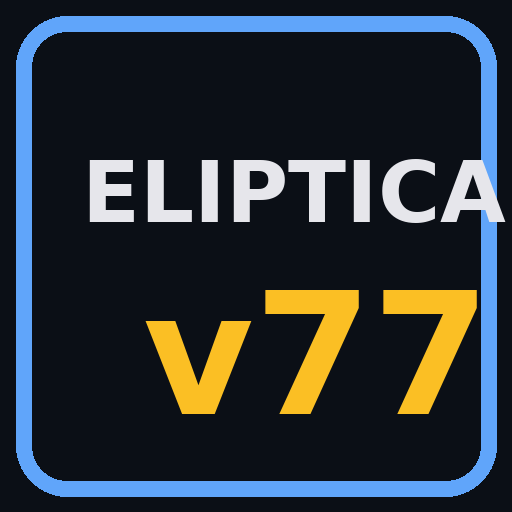
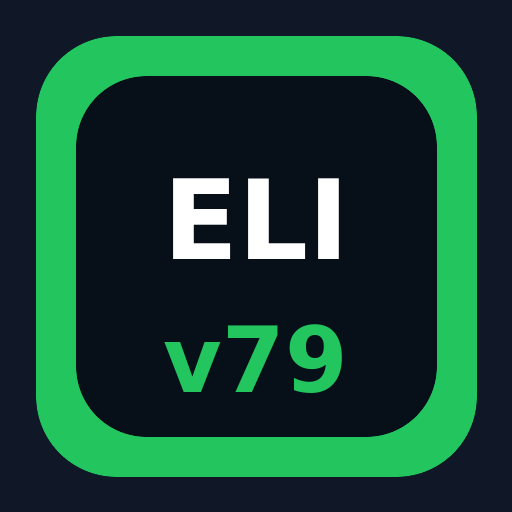
Add files via upload

diff --git a/app.js b/app.js
@@ -1,7 +1,7 @@
 (() => {
 'use strict';
-const APP_VERSION='v77';
-const BUILD='2026-04-23 12:20';
+const APP_VERSION='v79';
+const BUILD='2026-04-24 12:35';
 const $=id=>document.getElementById(id);
 const STATE_KEY='eliptica_state_current'; const VERSIONED_STATE_KEY=`eliptica_state_${APP_VERSION}`; const LAST_SESSION_KEY='lastCompletedSession'; const LAST_TIME_CAL_KEY='lastTimeCalibrationMemory'; const state={phase:'idle',countdown:{active:false},plan:null,startTs:null,pausedAccumMs:0,pauseTs:null,elapsedSec:0,machineOffsetSec:0,lastSec:-1,realOffset:0,history:[],logs:[],installPrompt:null,bannerIndex:0,bannerHoldMs:5000,bannerLastChange:0,bpmSamples:[],swReg:null,lastActionTs:0,lastRenderTick:0,lastRenderSnapshot:null,lastSummarySnapshot:null,wakeLock:null,timeCal:{enabled:false,appRefSec:0,realRefSec:0,factorOverall:1,factorAfterMinute:1},calMemory:{lastStartAppSec:0,lastStartRealSec:0,lastStartFactorOverall:1,lastStartFactorAfterMinute:1,lastRecommendedAppSec:0,lastRecommendedRealSec:0,lastRecommendedFactorOverall:1,lastRecommendedFactorAfterMinute:1,updatedAt:0},voice:{supported:('speechSynthesis' in window),unlocked:false,enabled:true,voices:[],selectedURI:'',queue:[],speaking:false,lastByKey:{},volume:1,rate:1,browserNotify:false,beepEnabled:true},audio:{ctx:null,unlocked:false},alerts:{lastKey:{},lastSecChecked:-1,lastNotifTs:0,finished:false,pulseSide:'ok',pulseSinceTs:0,pulseLastAlertTs:0},ble:{device:null,server:null,hrChar:null,connected:false,lastPacketTs:0,deviceName:'',autoAttempted:false,status:'EMparejar requerido',detail:'',reconnectAttempts:0,reconnectTimer:null,battery:null,lastRR:null}};
 const els={};
@@ -150,7 +150,14 @@ function pointControlText(data=state.lastSummarySnapshot||buildFinalSummarySnaps
     `Kcal plan: ${d.kPlan.toFixed(1)}`,
     `Kcal real: ${d.kReal.toFixed(1)}`,
     `Desvío total: ${d.totalDev>=0?'+':''}${d.totalDev.toFixed(1)} kcal`,
-    `Ritmo real: ${d.realRate.toFixed(2)} kcal/min`
+    `Ritmo real: ${d.realRate.toFixed(2)} kcal/min`,
+    ``,
+    `CALIBRACIÓN`,
+    `Inicio activa: ${d.timeCalEnabled?'SÍ':'NO'}`,
+    `Inicio: ${fmt(d.startCal.appRefSec||0)} → ${fmt(d.startCal.realRefSec||0)}`,
+    `Factor inicio desde 01:00: ${fmtFactor10(d.startCal.factorAfterMinute||1)}`,
+    `Recomendada final: ${fmt(d.recommendedCal.appRefSec||0)} → ${fmt(d.recommendedCal.realRefSec||0)}`,
+    `Factor recomendado desde 01:00: ${fmtFactor10(d.recommendedCal.factorAfterMinute||1)}`
   ];
   return lines.join('\n');
 }
@@ -627,6 +634,36 @@ function makeCalibrationPayload(appSec, realSec){
   if(!Number.isFinite(factorAfterMinute) || factorAfterMinute<=0) factorAfterMinute = factorOverall;
   return {enabled, appRefSec:a, realRefSec:r, factorOverall, factorAfterMinute};
 }
+
+function parseCalibrationFromText(text){
+  const lines = String(text||'').split(/\r?\n/).map(x=>x.trim()).filter(Boolean);
+  let inCal = false;
+  let appSec = null;
+  let realSec = null;
+  for(const line of lines){
+    if(/CALIBRACI[ÓO]N.*(?:TIEMPO|M[ÁA]QUINA|MAQUINA|PREVIA|INICIO)/i.test(line)){
+      inCal = true;
+      continue;
+    }
+    if(inCal && /^(?:BLOQUE|OBJETIVO|BPM|TRAMOS|AGUA|TOTAL|REGLAS|LECTURA|SEÑALES)\b/i.test(line)){
+      if(appSec!=null || realSec!=null) break;
+    }
+    if(!inCal) continue;
+    let m = line.match(/(?:Tiempo\s*)?(?:app|plan|base|aplicaci[oó]n)(?:\s*\/\s*plan)?\s*:\s*(\d{1,2}:\d{2})/i);
+    if(m){ appSec = parseMmSsInput(m[1]); continue; }
+    m = line.match(/(?:Tiempo\s*)?m[áa]quina\s*(?:real)?\s*:\s*(\d{1,2}:\d{2})/i);
+    if(m){ realSec = parseMmSsInput(m[1]); continue; }
+    m = line.match(/(?:maquina|máquina)\s*real\s*:\s*(\d{1,2}:\d{2})/i);
+    if(m){ realSec = parseMmSsInput(m[1]); continue; }
+    m = line.match(/^(\d{1,2}:\d{2})\s*(?:→|->|-->|—|–|-){1,2}\s*(\d{1,2}:\d{2})$/);
+    if(m){ appSec = parseMmSsInput(m[1]); realSec = parseMmSsInput(m[2]); continue; }
+  }
+  if(appSec!=null && realSec!=null){
+    const payload = makeCalibrationPayload(appSec, realSec);
+    return payload.enabled ? payload : null;
+  }
+  return null;
+}
 function recommendedCalibrationFromSnapshot(snap=state.lastRenderSnapshot||buildTimeSnapshot()){
   const safe = snap || buildTimeSnapshot();
   return makeCalibrationPayload(safe.machineBaseSec, safe.machineRawSec);
@@ -827,6 +864,7 @@ function parsePlan(text){
 
   const lines=text.split(/\r?\n/).map(s=>s.trim()).filter(Boolean);
   const segments=[], water=[], bpmApp={}, bpmDay={};
+  const importedTimeCal = parseCalibrationFromText(text);
   let totalTime=null,totalKcal=null, mode='';
   const parseDuration = (str)=>{
     const m = String(str||'').match(/(\d{1,2}):(\d{2})(?::(\d{2}))?/);
@@ -912,13 +950,21 @@ function parsePlan(text){
   const duration=segments.reduce((a,s)=>a+s.durationSec,0);
   if(!totalTime) totalTime = fmt(duration);
   if(totalKcal==null) totalKcal = segments.reduce((a,s)=>a+s.kcalTarget,0);
-  return {title:`ELÍPTICA ${APP_VERSION} · ${totalTime} · ~${Math.round(totalKcal)} kcal`,segments,water:[...new Set(water)],bpmApp,bpmDay,totalTime,totalKcal,normalizedText:text};
+  return {title:`ELÍPTICA ${APP_VERSION} · ${totalTime} · ~${Math.round(totalKcal)} kcal`,segments,water:[...new Set(water)],bpmApp,bpmDay,totalTime,totalKcal,normalizedText:text,timeCal:importedTimeCal};
 }
 function normalizeText(plan=state.plan){
   if(!plan) return '';
   const rows=[];
   rows.push(plan.title.replace(` ${APP_VERSION}`,''));
   rows.push('');
+  if(plan.timeCal && plan.timeCal.enabled){
+    rows.push('CALIBRACIÓN PREVIA TIEMPO MÁQUINA');
+    rows.push(`Tiempo app/plan: ${fmt(plan.timeCal.appRefSec)}`);
+    rows.push(`Tiempo máquina real: ${fmt(plan.timeCal.realRefSec)}`);
+    rows.push(`Factor general: ${fmtFactor10(plan.timeCal.factorOverall)}`);
+    rows.push(`Factor desde 01:00: ${fmtFactor10(plan.timeCal.factorAfterMinute)}`);
+    rows.push('');
+  }
   if(Object.keys(plan.bpmApp||{}).length){
     rows.push('BPM OPERATIVO PARA LA APP');
     Object.keys(plan.bpmApp).sort((a,b)=>Number(a)-Number(b)).forEach(k=>rows.push(`Nivel ${k}: ${plan.bpmApp[k].min}-${plan.bpmApp[k].max}`));
@@ -941,7 +987,17 @@ function normalizeText(plan=state.plan){
 function applyPlan(){
   const text=els.planInput.value.trim();
   if(!text) throw new Error('No hay texto de plan');
-  state.plan=parsePlan(text);
+  const parsedPlan=parsePlan(text);
+  state.plan=parsedPlan;
+  if(parsedPlan.timeCal && parsedPlan.timeCal.enabled){
+    state.timeCal = Object.assign({enabled:false,appRefSec:0,realRefSec:0,factorOverall:1,factorAfterMinute:1}, parsedPlan.timeCal);
+    state.calMemory.lastStartAppSec = state.timeCal.appRefSec;
+    state.calMemory.lastStartRealSec = state.timeCal.realRefSec;
+    state.calMemory.lastStartFactorOverall = state.timeCal.factorOverall;
+    state.calMemory.lastStartFactorAfterMinute = state.timeCal.factorAfterMinute;
+    persistCalibrationMemory();
+    addLog(`[TIME] Calibración importada con el plan · app ${fmt(state.timeCal.appRefSec)} → máquina real ${fmt(state.timeCal.realRefSec)} · f=${fmtFactor10(state.timeCal.factorAfterMinute)}`);
+  }
   state.phase='idle';
   state.elapsedSec=0;
   state.startTs=null;
@@ -967,7 +1023,7 @@ function applyPlan(){
   renderAll();
   addLog(`[PLAN] Cargado · ${state.plan.segments.length} tramos · agua ${state.plan.water.length}`);
 }
-function previewPlan(){const text=els.planInput.value.trim(); const p=parsePlan(text); els.importOutput.textContent=`TRAMOS: ${p.segments.length}\nDURACIÓN: ${p.totalTime||fmt(p.segments.reduce((a,s)=>a+s.durationSec,0))}\nKCAL: ~${Math.round(p.totalKcal||p.segments.reduce((a,s)=>a+s.kcalTarget,0))}\nAGUA: ${p.water.join(', ')||'ninguna'}\nTESTS: ${p.segments.filter(s=>s.isTest).map(s=>s.id).join(', ')||'ninguno'}`;}
+function previewPlan(){const text=els.planInput.value.trim(); const p=parsePlan(text); els.importOutput.textContent=`TRAMOS: ${p.segments.length}\nDURACIÓN: ${p.totalTime||fmt(p.segments.reduce((a,s)=>a+s.durationSec,0))}\nKCAL: ~${Math.round(p.totalKcal||p.segments.reduce((a,s)=>a+s.kcalTarget,0))}\nAGUA: ${p.water.join(', ')||'ninguna'}\nCALIBRACIÓN IMPORTADA: ${p.timeCal&&p.timeCal.enabled?fmt(p.timeCal.appRefSec)+' → '+fmt(p.timeCal.realRefSec):'NO'}\nTESTS: ${p.segments.filter(s=>s.isTest).map(s=>s.id).join(', ')||'ninguno'}`;}
 function normalizePlan(){const text=els.planInput.value.trim(); const p=parsePlan(text); els.planInput.value=normalizeText(p);}
 async function copyText(txt){if(!txt) throw new Error('No hay texto'); try{if(navigator.clipboard&&window.isSecureContext){await navigator.clipboard.writeText(txt); return true}}catch(e){} const ta=document.createElement('textarea'); ta.value=txt; ta.setAttribute('readonly',''); ta.style.position='fixed'; ta.style.left='-9999px'; ta.style.opacity='0'; document.body.appendChild(ta); ta.focus(); ta.select(); ta.setSelectionRange(0, ta.value.length); let ok=false; try{ok=document.execCommand('copy')}catch(e){} ta.remove(); if(ok) return true; download(`copiado_${APP_VERSION}.txt`,txt,'text/plain;charset=utf-8'); addLog('[COPY] Portapapeles no disponible; descargado como TXT'); return false}
 function copyPlanText(){ const txt=(els.planInput?.value||'').trim() || (state.plan?normalizeText(): ''); return copyText(txt) }
@@ -1238,7 +1294,34 @@ function loadPersisted(){
   }catch(e){addLog('[LOAD] ERROR: '+(e.message||e))}
 }
 function resumeSavedSession(){loadPersisted(); renderAll(); if(state.plan) addLog('[LOAD] Reanudada desde guardado local'); else throw new Error('No hay sesión guardada')}
-function summaryText(){const segs=buildSegmentSummary(); const lines=[`ELÍPTICA ${APP_VERSION}`,`Tiempo máquina base: ${fmt(currentMachineElapsedBase())}`,`Tiempo máquina ajustado: ${fmt(currentMachineElapsedRaw())}`,`Tiempo plan: ${fmt(currentElapsed())}`,`Tiempo real: ${fmt(currentRealElapsed())}`,`Ajuste máquina: ${state.machineOffsetSec>=0?'+':'-'}${fmt(Math.abs(state.machineOffsetSec||0))}`,`Calibración activa: ${state.timeCal.enabled?'SÍ':'NO'}`,`Factor general: ${fmtFactor10(state.timeCal.factorOverall||1)}`,`Factor desde 01:00: ${fmtFactor10(state.timeCal.factorAfterMinute||1)}`,`Kcal plan: ${currentPlanKcal().toFixed(1)}`,`Kcal real: ${currentRealKcal().toFixed(1)}`,`Desvío total: ${totalDeviation().toFixed(1)} kcal`,`Ritmo real: ${realRate().toFixed(2)} kcal/min`,`Pulso: ${bpmDisplay()?.toFixed(1)??'--.-'}`,'']; segs.forEach(s=>lines.push(`${s.segment} · N${s.level} · plan ${s.kcalPlan} · real ${s.kcalReal} · desvío ${s.deviation}`)); return lines.join('\n')}
+function summaryText(data=state.lastSummarySnapshot||buildFinalSummarySnapshot()){
+  const d = data || buildFinalSummarySnapshot();
+  const lines=[
+    `ELÍPTICA ${APP_VERSION}`,
+    `Tiempo máquina base: ${fmt(d.machineBaseSec)}`,
+    `Tiempo máquina ajustado: ${fmt(d.machineRawSec)}`,
+    `Tiempo plan: ${fmt(d.planSec)}`,
+    `Tiempo real: ${fmt(d.realSec)}`,
+    `Ajuste máquina: ${d.machineOffsetSec>=0?'+':'-'}${fmt(Math.abs(d.machineOffsetSec||0))}`,
+    `Calibración activa: ${d.timeCalEnabled?'SÍ':'NO'}`,
+    `Calibración inicio app: ${fmt(d.startCal.appRefSec||0)}`,
+    `Calibración inicio máquina real: ${fmt(d.startCal.realRefSec||0)}`,
+    `Factor general inicio: ${fmtFactor10(d.startCal.factorOverall||1)}`,
+    `Factor desde 01:00 inicio: ${fmtFactor10(d.startCal.factorAfterMinute||1)}`,
+    `Calibración recomendada app: ${fmt(d.recommendedCal.appRefSec||0)}`,
+    `Calibración recomendada máquina real: ${fmt(d.recommendedCal.realRefSec||0)}`,
+    `Factor general recomendado: ${fmtFactor10(d.recommendedCal.factorOverall||1)}`,
+    `Factor desde 01:00 recomendado: ${fmtFactor10(d.recommendedCal.factorAfterMinute||1)}`,
+    `Kcal plan: ${d.kPlan.toFixed(1)}`,
+    `Kcal real: ${d.kReal.toFixed(1)}`,
+    `Desvío total: ${d.totalDev>=0?'+':''}${d.totalDev.toFixed(1)} kcal`,
+    `Ritmo real: ${d.realRate.toFixed(2)} kcal/min`,
+    `Pulso: ${d.bpm!=null?Number(d.bpm).toFixed(1):'--.-'}`,
+    ''
+  ];
+  (d.segs||[]).forEach(s=>lines.push(`${s.segment} · N${s.level} · plan ${s.kcalPlan} · real ${s.kcalReal} · desvío ${s.deviation}`));
+  return lines.join('\n');
+}
 
 function showFinalSummary(){
   const snap=buildFinalSummarySnapshot(state.lastRenderSnapshot||buildTimeSnapshot());
@@ -1249,7 +1332,31 @@ function showFinalSummary(){
   addLog('[SUMMARY] Resumen final generado');
 }
 
-function download(name, content, mime='text/plain;charset=utf-8'){const blob=new Blob([content],{type:mime}); const url=URL.createObjectURL(blob); const a=document.createElement('a'); a.href=url; a.download=name; document.body.appendChild(a); a.click(); a.remove(); setTimeout(()=>URL.revokeObjectURL(url),500)}
+function fileTimestamp(d=new Date()){
+  const pad=n=>String(n).padStart(2,'0');
+  return `${d.getFullYear()}${pad(d.getMonth()+1)}${pad(d.getDate())}_${pad(d.getHours())}${pad(d.getMinutes())}${pad(d.getSeconds())}`;
+}
+function withDownloadTimestamp(name){
+  const raw=String(name||`archivo_${APP_VERSION}.txt`).replace(/[\/:*?\"<>|]+/g,'-').trim() || `archivo_${APP_VERSION}.txt`;
+  const stamp=fileTimestamp();
+  const dot=raw.lastIndexOf(".");
+  if(dot>0){ return `${raw.slice(0,dot)}_${stamp}${raw.slice(dot)}`; }
+  return `${raw}_${stamp}`;
+}
+function download(name, content, mime='text/plain;charset=utf-8'){
+  const finalName=withDownloadTimestamp(name);
+  const blob=new Blob([content],{type:mime});
+  const url=URL.createObjectURL(blob);
+  const a=document.createElement('a');
+  a.href=url;
+  a.download=finalName;
+  document.body.appendChild(a);
+  a.click();
+  a.remove();
+  setTimeout(()=>URL.revokeObjectURL(url),500);
+  try{ addLog(`[DOWNLOAD] ${finalName}`); }catch(e){}
+  return finalName;
+}
 
 function exportJson(){
   const snap = state.lastSummarySnapshot||buildFinalSummarySnapshot();
@@ -1258,9 +1365,9 @@ function exportJson(){
   if(els.importOutput) els.importOutput.textContent='JSON exportado';
 }
 
-function exportSessionCsv(){if(!state.history.length) throw new Error('No hay datos segundo a segundo'); const rows=['seg_plan;clock_plan;seg_machine_raw;clock_machine_raw;seg_real;clock_real;level;segment;kcal_plan;kcal_real;bpm']; state.history.forEach(h=>rows.push([h.sec,h.clock,h.machineRawSec??'',h.machineRawClock??'',h.realSec??'',h.realClock??'',h.level,h.segment,h.kPlan,h.kReal,h.bpm??''].join(';'))); download(`sesion_${APP_VERSION}.csv`,'\ufeff'+rows.join('\r\n'),'text/csv;charset=utf-8'); addLog('[EXPORT] Sesión CSV exportada')}
-function exportMinuteCsv(){const rowsData=buildMinuteRows(); if(!rowsData.length) throw new Error('No hay datos minuto a minuto todavía'); const rows=['minute;clock;level;segment;kcal_start;kcal_end;kcal_minute;kcal_per_min;bpm_avg']; rowsData.forEach(r=>rows.push([r.minute,r.clock,r.level,r.segment,r.kcalStart,r.kcalEnd,r.kcalMinute,r.kcalPerMin,r.bpmAvg??''].join(';'))); download(`minuto_${APP_VERSION}.csv`,'\ufeff'+rows.join('\r\n'),'text/csv;charset=utf-8'); addLog('[EXPORT] Minuto a minuto exportado')}
-function exportTramoCsv(){const segs=buildSegmentSummary(); if(!segs.length) throw new Error('No hay datos por tramo'); const rows=['segment;level;duration;kcal_plan;kcal_real;deviation;bpm_avg']; segs.forEach(s=>rows.push([s.segment,s.level,s.duration,s.kcalPlan,s.kcalReal,s.deviation,s.bpmAvg??''].join(';'))); download(`tramos_${APP_VERSION}.csv`,'\ufeff'+rows.join('\r\n'),'text/csv;charset=utf-8'); addLog('[EXPORT] CSV por tramos exportado')}
+function exportSessionCsv(){if(!state.history.length) throw new Error('No hay datos segundo a segundo'); const snap=state.lastSummarySnapshot||buildFinalSummarySnapshot(); const rows=calibrationRowsForCsv(snap); rows.push('seg_plan;clock_plan;seg_machine_raw;clock_machine_raw;seg_real;clock_real;level;segment;kcal_plan;kcal_real;bpm'); state.history.forEach(h=>rows.push([h.sec,h.clock,h.machineRawSec??'',h.machineRawClock??'',h.realSec??'',h.realClock??'',h.level,h.segment,h.kPlan,h.kReal,h.bpm??''].join(';'))); download(`sesion_${APP_VERSION}.csv`,'\ufeff'+rows.join('\r\n'),'text/csv;charset=utf-8'); addLog('[EXPORT] Sesión CSV exportada')}
+function exportMinuteCsv(){const rowsData=buildMinuteRows(); if(!rowsData.length) throw new Error('No hay datos minuto a minuto todavía'); const snap=state.lastSummarySnapshot||buildFinalSummarySnapshot(); const rows=calibrationRowsForCsv(snap); rows.push('minute;clock;level;segment;kcal_start;kcal_end;kcal_minute;kcal_per_min;bpm_avg'); rowsData.forEach(r=>rows.push([r.minute,r.clock,r.level,r.segment,r.kcalStart,r.kcalEnd,r.kcalMinute,r.kcalPerMin,r.bpmAvg??''].join(';'))); download(`minuto_${APP_VERSION}.csv`,'\ufeff'+rows.join('\r\n'),'text/csv;charset=utf-8'); addLog('[EXPORT] Minuto a minuto exportado')}
+function exportTramoCsv(){const segs=buildSegmentSummary(); if(!segs.length) throw new Error('No hay datos por tramo'); const snap=state.lastSummarySnapshot||buildFinalSummarySnapshot(); const rows=calibrationRowsForCsv(snap); rows.push('segment;level;duration;kcal_plan;kcal_real;deviation;bpm_avg'); segs.forEach(s=>rows.push([s.segment,s.level,s.duration,s.kcalPlan,s.kcalReal,s.deviation,s.bpmAvg??''].join(';'))); download(`tramos_${APP_VERSION}.csv`,'\ufeff'+rows.join('\r\n'),'text/csv;charset=utf-8'); addLog('[EXPORT] CSV por tramos exportado')}
 function exportPlan(){const txt=state.plan?normalizeText():els.planInput.value; if(!txt) throw new Error('No hay plan para exportar'); download(`plan_${APP_VERSION}.txt`,txt,'text/plain;charset=utf-8'); addLog('[EXPORT] Plan exportado')}
 
 function compareLast(){

diff --git a/sw.js b/sw.js
@@ -1,5 +1,5 @@
-const CACHE='eliptica-v77-cache';
-const CORE=['./','./index.html?v=v77','./app.js?v=v77','./manifest.webmanifest?v=v77','./icon-192.png?v=v77','./icon-512.png?v=v77'];
+const CACHE='eliptica-v79-cache';
+const CORE=['./','./index.html?v=v79','./app.js?v=v79','./manifest.webmanifest?v=v79','./icon-192.png?v=v79','./icon-512.png?v=v79'];
 self.addEventListener('install',e=>{
   self.skipWaiting();
   e.waitUntil(caches.open(CACHE).then(c=>c.addAll(CORE)));
@@ -21,10 +21,10 @@ self.addEventListener('fetch',e=>{
       try{
         const fresh=await fetch(e.request,{cache:'no-store'});
         const cache=await caches.open(CACHE);
-        cache.put('./index.html?v=v77', fresh.clone());
+        cache.put('./index.html?v=v79', fresh.clone());
         return fresh;
       }catch(err){
-        return (await caches.match('./index.html?v=v77')) || (await caches.match('./index.html')) || Response.error();
+        return (await caches.match('./index.html?v=v79')) || (await caches.match('./index.html')) || Response.error();
       }
     })());
     return;
